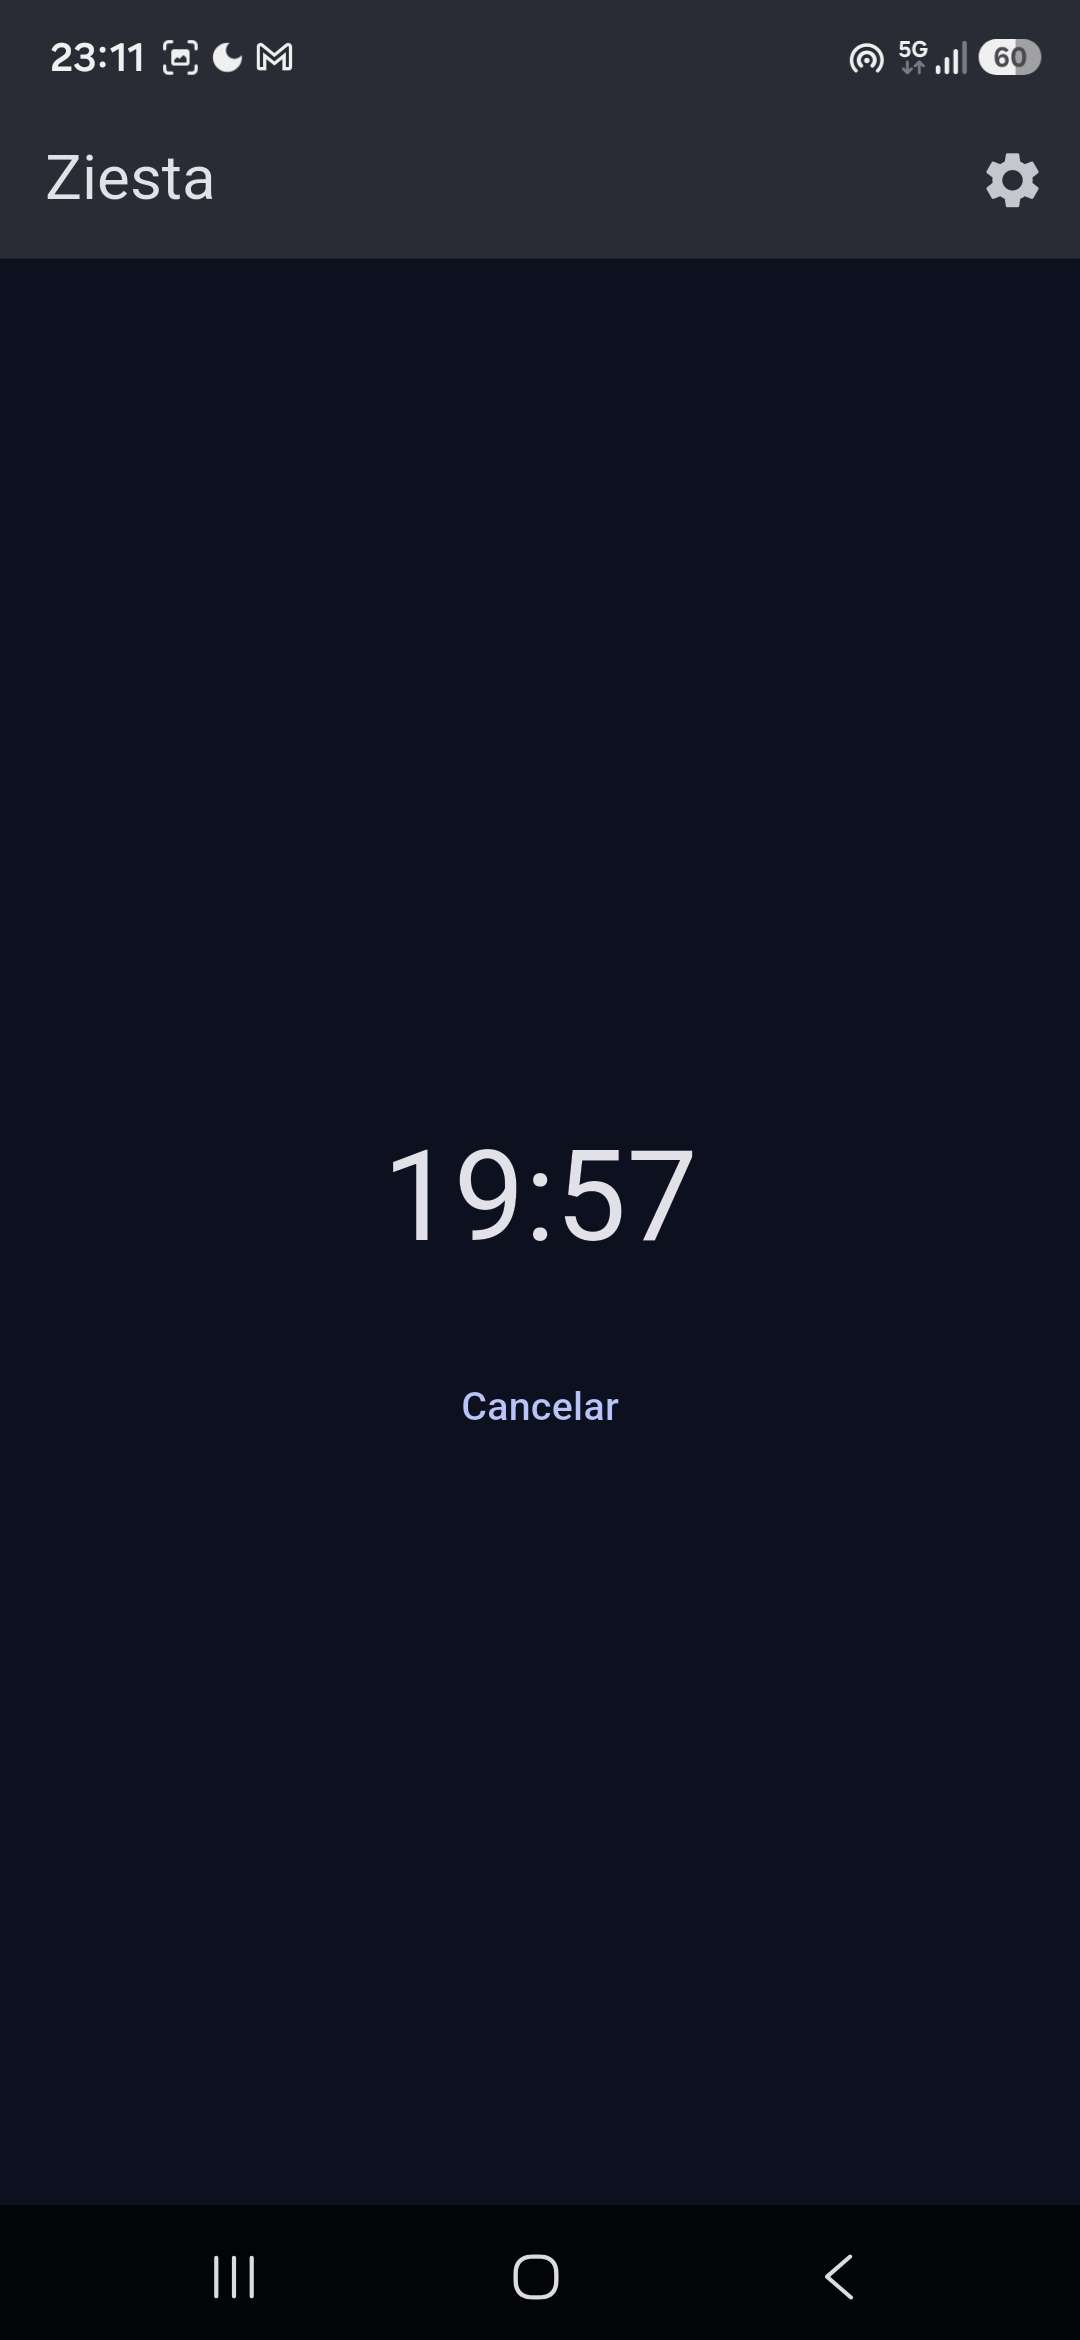
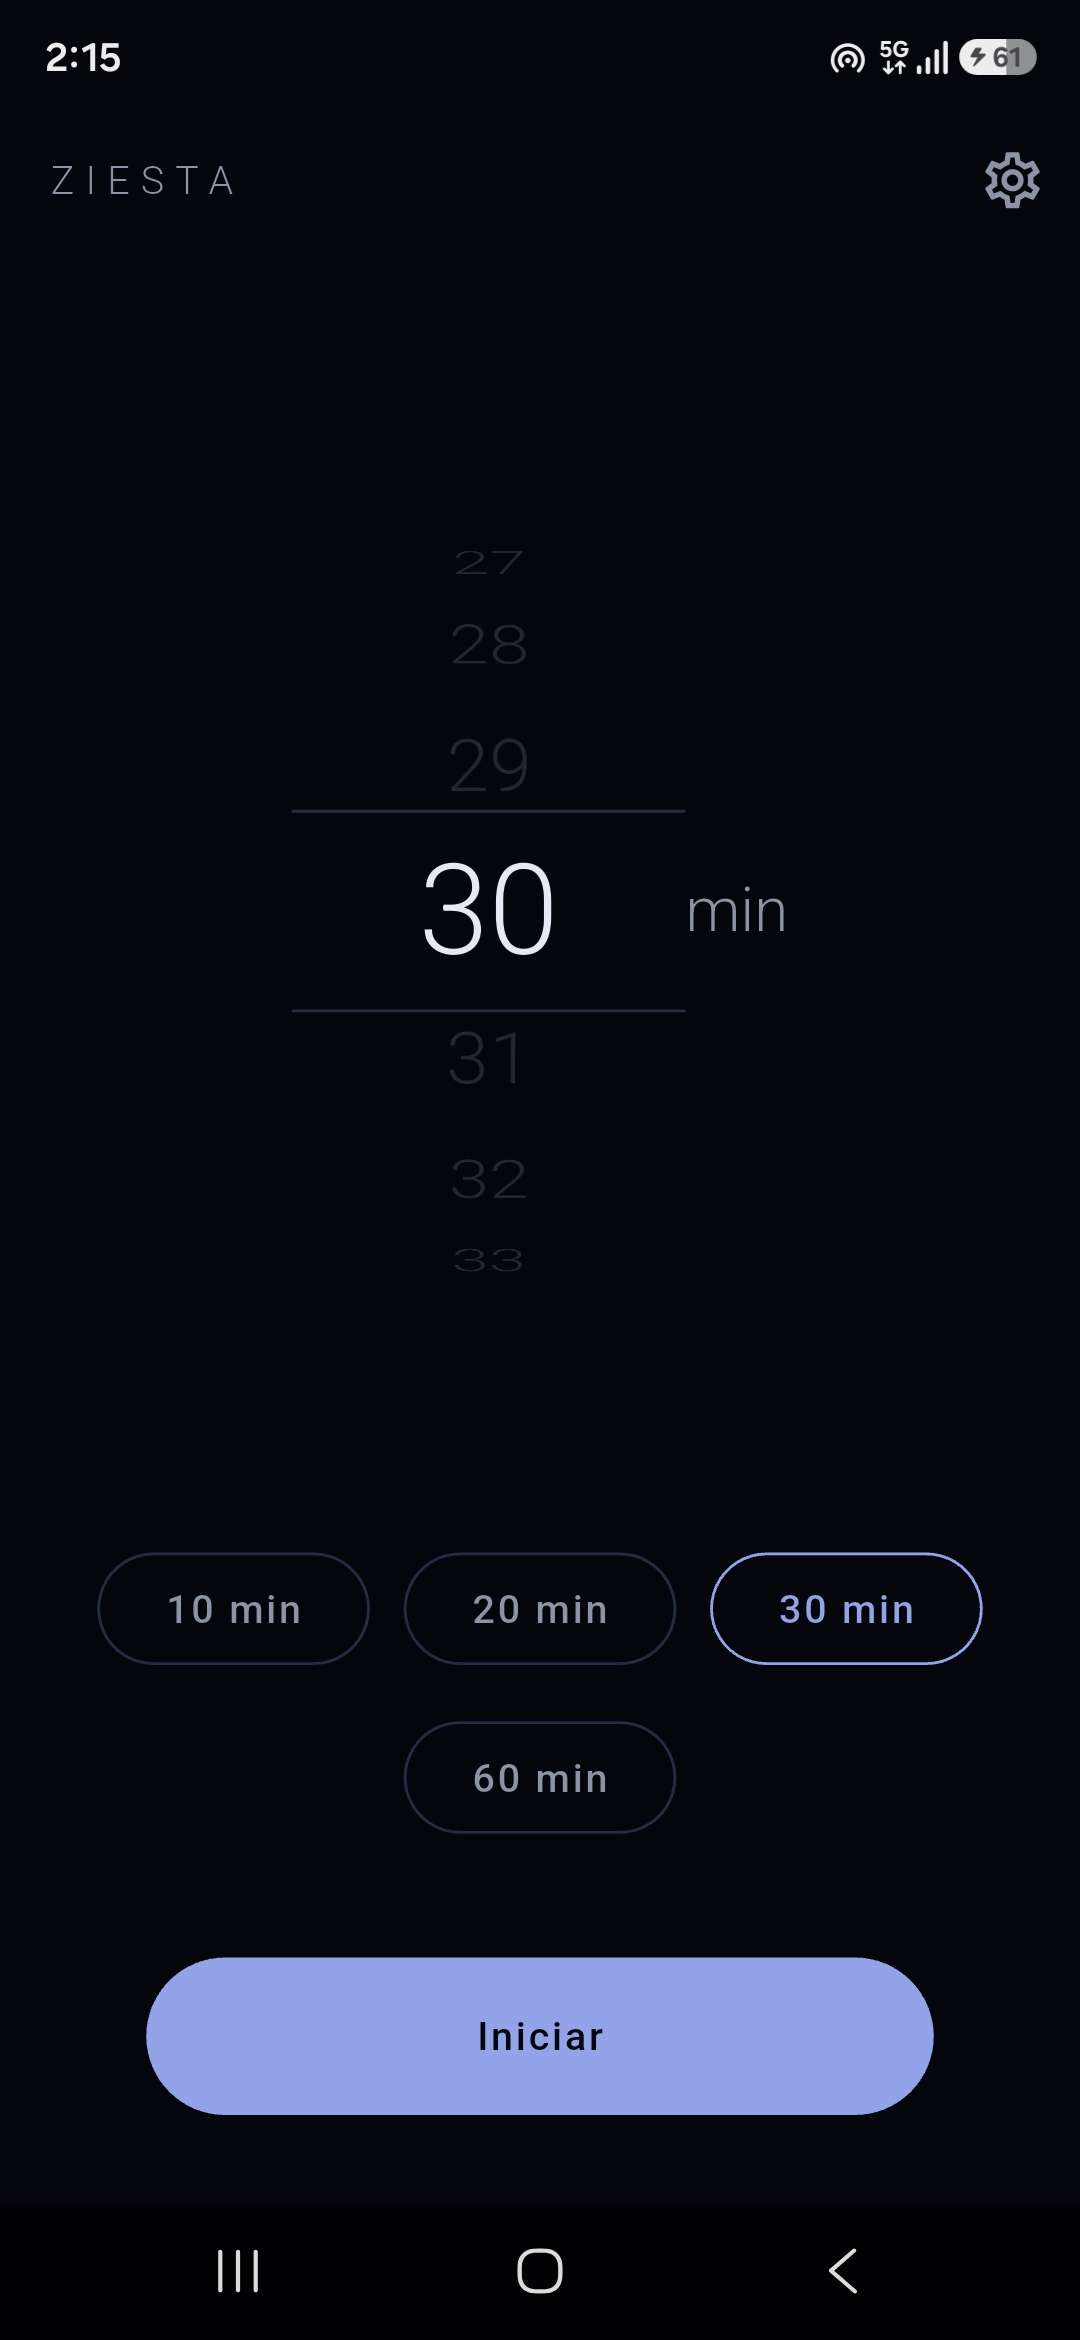
Update README and screenshots

diff --git a/README.md b/README.md
@@ -4,17 +4,18 @@ A sleep timer for Android that **pauses the audio of other apps** (YouTube, Twit
 after the time you choose, so you never wake up with a video still playing.
 
 ![Main screen](docs/screenshots/main.png)
-![Countdown](docs/screenshots/countDown.png)
+![Countdown](docs/screenshots/countdown.png)
 ![Settings](docs/screenshots/settings.png)
 
 ## Features
 
 - Pick the time with a wheel (1-180 minutes) or one of the quick buttons: 10, 20, 30 and 60 minutes.
 - Works with the screen off and with the app closed.
-- Notification one minute before the audio is paused.
-- Countdown that survives closing the app.
+- Persistent, silent notification with a live countdown and **+15 min** and **Cancel** buttons,
+  so you can extend or stop the timer without opening the app.
+- Gradual volume fade during the last minute; the original volume is restored after the pause.
 - Settings: default duration and light/dark theme (dark by default).
-- Spanish and English.
+- Minimalist dark interface, in Spanish and English.
 
 ## How it works
 
@@ -25,10 +26,13 @@ Flutter can't control other apps' audio by itself, so the project combines two l
   - `AlarmManager` schedules an exact alarm that fires even in Doze mode.
   - A `BroadcastReceiver` requests **audio focus** and sends a **media pause key event**,
     which makes players such as YouTube and Twitch pause.
-  - A second alarm posts the warning notification one minute earlier.
+  - A short foreground service lowers the media volume during the last minute.
+  - An ongoing notification shows the countdown (drawn by the system, so it costs no battery)
+    and handles the extend and cancel actions.
 
-The countdown on screen is only a display: the real timer belongs to the system,
-so it keeps working if the app is killed.
+The native side owns the timer: it stores the end time, so the notification buttons work
+even if the app is closed. The Flutter side only asks for that time (once at startup and then
+every second while a countdown is visible), so the screen always stays in sync.
 
 ## Install
 
@@ -38,7 +42,7 @@ Download the latest APK from the [Releases](../../releases) page and open it on 
 Requires Android 8.0 or newer. On first use, Ziesta asks for:
 
 - **Alarms & reminders** (exact alarms), to pause at the right time.
-- **Notifications**, for the one-minute warning.
+- **Notifications**, to show the countdown.
 
 ## Build from source
 
@@ -56,12 +60,12 @@ To build a signed release you need your own keystore and an `android/key.propert
 
 ```
 lib/
-  core/        shared code (native channel, preferences)
+  core/        shared code (native channel, preferences, theme)
   features/
     timer/     timer screen, state and countdown
     settings/  settings screen and state
   l10n/        translations (.arb)
-android/app/src/main/kotlin/   alarm, audio and notification code
+android/app/src/main/kotlin/   alarm, audio, volume fade and notification code
 test/                          unit and widget tests
 ```
 
@@ -70,3 +74,4 @@ test/                          unit and widget tests
 - Restarting the phone cancels the pending alarm.
 - Tested with the YouTube and Twitch apps; other players may ignore audio focus
   and media keys.
+- The volume fade changes the system media volume and restores it afterwards.
